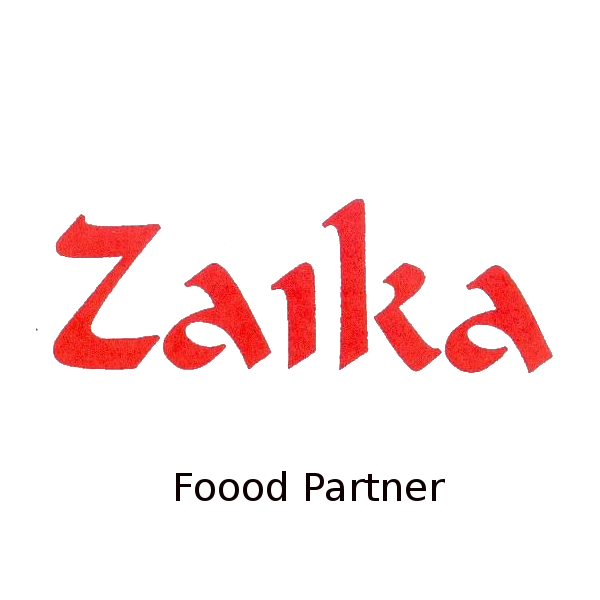
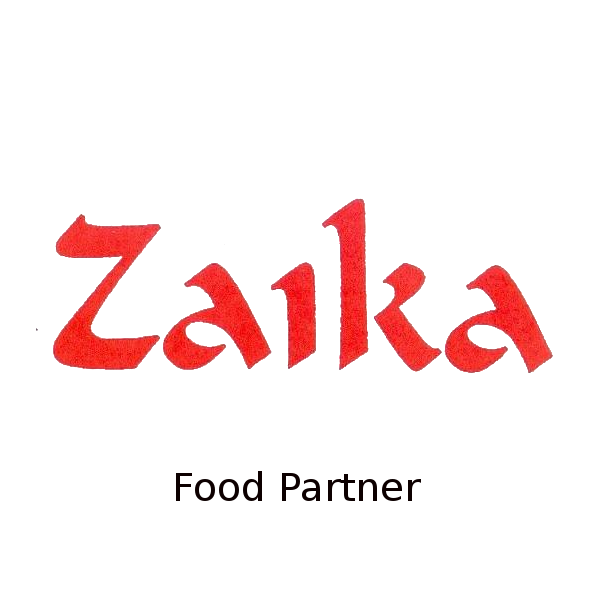
Changes in Sponsors

Changed region(s): [[0.42, 0.78, 0.75, 0.84]]

diff --git a/index.html b/index.html
@@ -822,6 +822,26 @@
               <a><img class = "img-responsive" src="assets/img/sponsors/veggiepoint.png" alt=""></a>
             </div>
           </div>
+          <div class="col-md-3 col-sm-6 col-xs-12">
+            <div class="spnsors-logo wow fadeInUp" data-wow-delay="0.4s">
+              <a><img class = "img-responsive" src="assets/img/sponsors/chickenkhuranna.png" alt=""></a>
+            </div>
+          </div>
+          <div class="col-md-3 col-sm-6 col-xs-12">
+            <div class="spnsors-logo wow fadeInUp" data-wow-delay="0.4s">
+              <a><img class = "img-responsive" src="assets/img/sponsors/zaika.png" alt=""></a>
+            </div>
+          </div>
+          <div class="col-md-3 col-sm-6 col-xs-12">
+            <div class="spnsors-logo wow fadeInUp" data-wow-delay="0.4s">
+              <a><img class = "img-responsive" src="assets/img/sponsors/FarmLogo.png" alt=""></a>
+            </div>
+          </div>
+          <div class="col-md-3 col-sm-6 col-xs-12">
+            <div class="spnsors-logo wow fadeInUp" data-wow-delay="0.4s">
+              <a><img class = "img-responsive" src="assets/img/sponsors/chicagopizza.png" alt=""></a>
+            </div>
+          </div>
         </div>
           
       </div>
